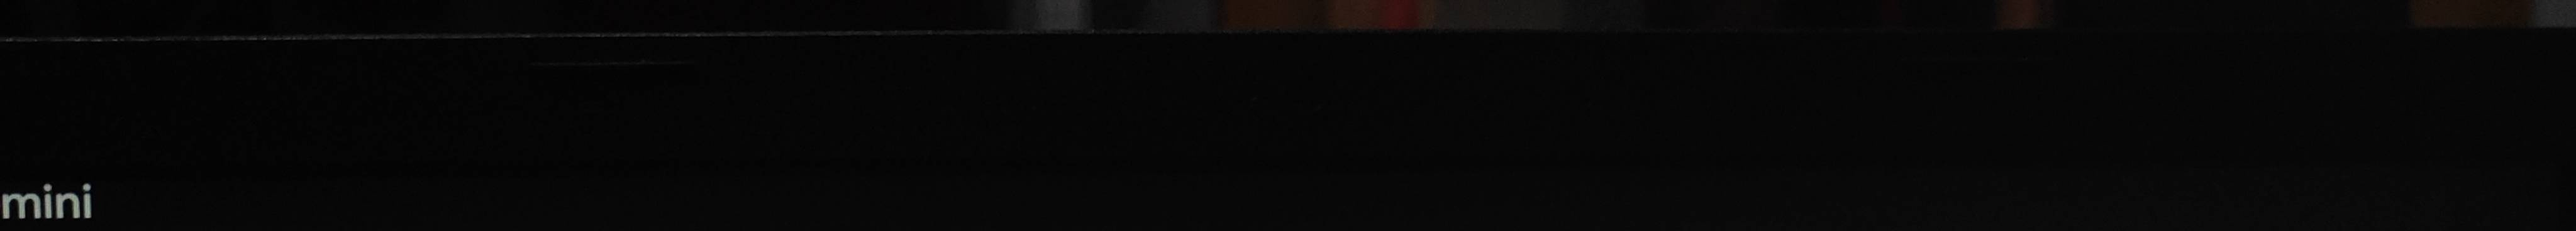
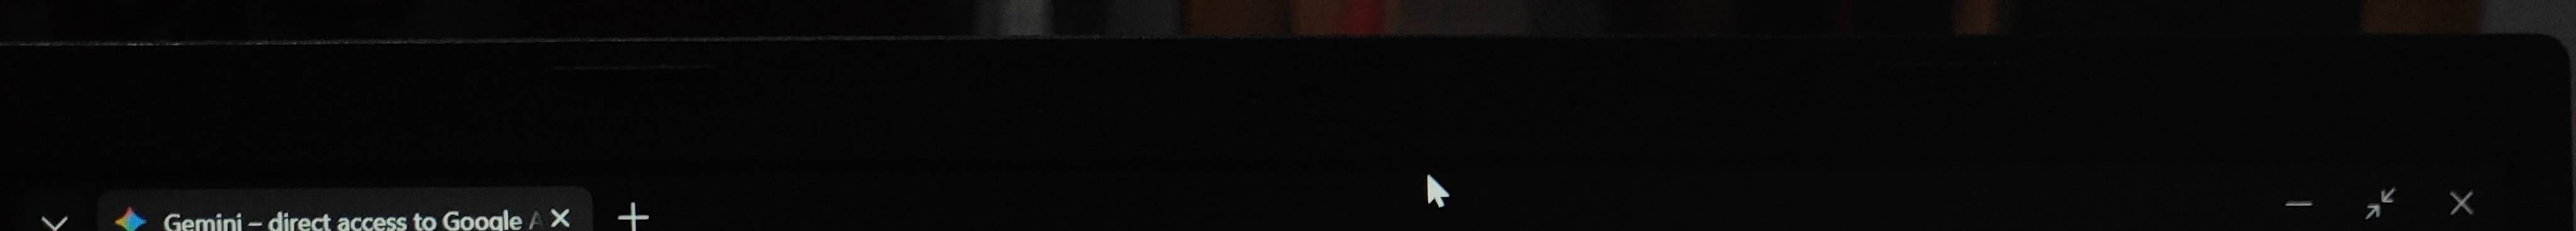
Fixed caliberation issues

diff --git a/calibration/coordinate_solver.py b/calibration/coordinate_solver.py
@@ -31,6 +31,30 @@ class CalibrationResult:
         self.message = message
 
 
+def _pixel_to_grid(
+    gm: GridMap,
+    capture_x: int,
+    capture_y: int,
+    capture_w: int,
+    capture_h: int,
+    screen_w: int,
+    screen_h: int,
+) -> tuple[int, int, int, int]:
+    """Convert capture-space pixel to screen-space pixel and grid cell."""
+    scaled_x = int(capture_x * screen_w / max(1, capture_w))
+    scaled_y = int(capture_y * screen_h / max(1, capture_h))
+    scaled_x = max(0, min(max(1, screen_w) - 1, scaled_x))
+    scaled_y = max(0, min(max(1, screen_h) - 1, scaled_y))
+
+    cell_w = float(screen_w) / float(max(1, gm.grid_size[0]))
+    cell_h = float(screen_h) / float(max(1, gm.grid_size[1]))
+    grid_col = int(scaled_x / max(1e-6, cell_w))
+    grid_row = int(scaled_y / max(1e-6, cell_h))
+    grid_col = max(0, min(gm.grid_size[0] - 1, grid_col))
+    grid_row = max(0, min(gm.grid_size[1] - 1, grid_row))
+    return scaled_x, scaled_y, grid_col, grid_row
+
+
 def calibrate_from_screenshot(image_path: Path, resolution: tuple[int, int] = (1920, 1080)) -> CalibrationResult:
     """
     Analyze an exam screenshot and produce a calibrated GridMap.
@@ -134,6 +158,75 @@ def calibrate_from_screenshot(image_path: Path, resolution: tuple[int, int] = (1
         "offset_y": 0.0,
     }
     gm.grid_size = (20, 20)
+
+    # Primary calibration path (robust): exam layout + radio-row option detector.
+    # This matches runtime click mapping behavior and is more stable than global contours.
+    try:
+        from controller.capture_pipeline.exam_layout import ExamLayoutDetector
+        from controller.capture_pipeline.option_detector import OptionDetector
+
+        layout = ExamLayoutDetector().detect(image_path)
+        option_map = None
+        if layout is not None and layout.answer_panel is not None:
+            option_map = OptionDetector().detect(image_path, layout)
+
+        if option_map is not None and option_map.count >= 4:
+            for letter in ("A", "B", "C", "D"):
+                opt = option_map.get(letter)
+                if opt is None:
+                    raise ValueError(f"missing option {letter} in option_map")
+                sx, sy, gc, gr = _pixel_to_grid(
+                    gm,
+                    capture_x=int(opt.click_x),
+                    capture_y=int(opt.click_y),
+                    capture_w=w,
+                    capture_h=h,
+                    screen_w=resolution[0],
+                    screen_h=resolution[1],
+                )
+                gm.positions[letter] = (gc, gr)
+                logger.info("Detected %s: pixel=(%d,%d) → grid=(%d,%d)", letter, sx, sy, gc, gr)
+
+            opt_e = option_map.get("E")
+            if opt_e is not None:
+                _sx, _sy, egc, egr = _pixel_to_grid(
+                    gm,
+                    capture_x=int(opt_e.click_x),
+                    capture_y=int(opt_e.click_y),
+                    capture_w=w,
+                    capture_h=h,
+                    screen_w=resolution[0],
+                    screen_h=resolution[1],
+                )
+                gm.positions["E"] = (egc, egr)
+
+            if layout.next_button is not None:
+                nx, ny = layout.next_button.cx, layout.next_button.cy
+            elif layout.answer_panel is not None:
+                nx = int(layout.answer_panel.x + layout.answer_panel.w * 0.90)
+                ny = int(layout.answer_panel.y + layout.answer_panel.h * 0.96)
+            else:
+                nx = int(w * 0.90)
+                ny = int(h * 0.95)
+
+            sx, sy, gc, gr = _pixel_to_grid(
+                gm,
+                capture_x=nx,
+                capture_y=ny,
+                capture_w=w,
+                capture_h=h,
+                screen_w=resolution[0],
+                screen_h=resolution[1],
+            )
+            gm.positions["NEXT"] = (gc, gr)
+            logger.info("Detected NEXT: pixel=(%d,%d) → grid=(%d,%d)", sx, sy, gc, gr)
+
+            gm.positions.setdefault("SCROLL_LEFT", (0, 10))
+            gm.positions.setdefault("SCROLL_RIGHT", (19, 10))
+            logger.info("Calibration complete: %d positions mapped", len(gm.positions))
+            return CalibrationResult(success=True, grid_map=gm, message="Calibration successful")
+    except Exception as e:
+        logger.warning("Primary calibration path failed, falling back to legacy contour method: %s", e)
 
     if len(option_candidates) < 4:
         logger.warning(

diff --git a/controller/orchestrator/system_controller.py b/controller/orchestrator/system_controller.py
@@ -113,6 +113,12 @@ class SystemController:
         command = command.upper()
         logger.info("Handling command: %s", command)
 
+        # Allow operator recovery after STOP without requiring app restart.
+        # STOPPED is terminal for active run state, but START/CALIBRATE should
+        # deterministically revive the controller back to IDLE first.
+        if self._sm.state == SystemState.STOPPED and command in {"START", "CALIBRATE"}:
+            self._sm.transition_to(SystemState.IDLE, reason=f"recover_from_stopped:{command.lower()}")
+
         handlers = {
             "CALIBRATE": self._handle_calibrate,
             "START": self._handle_start,
